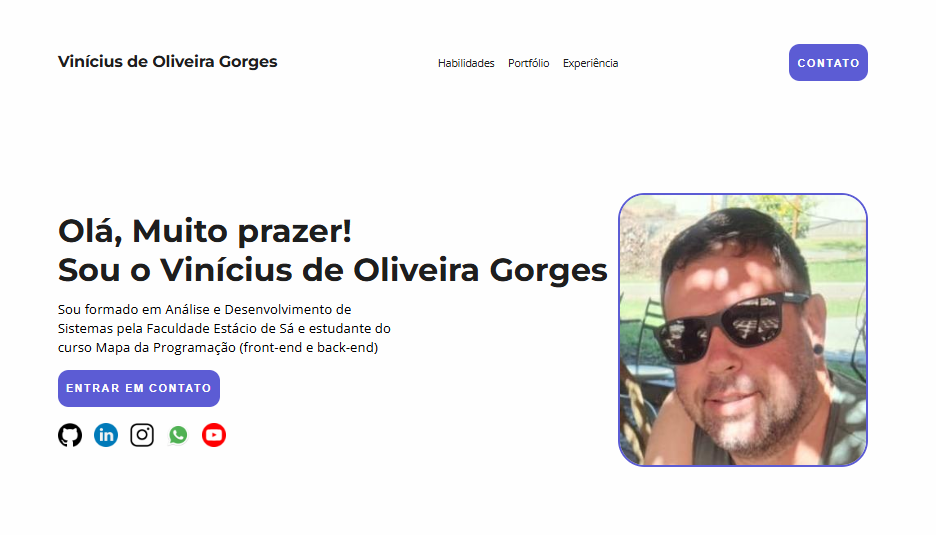
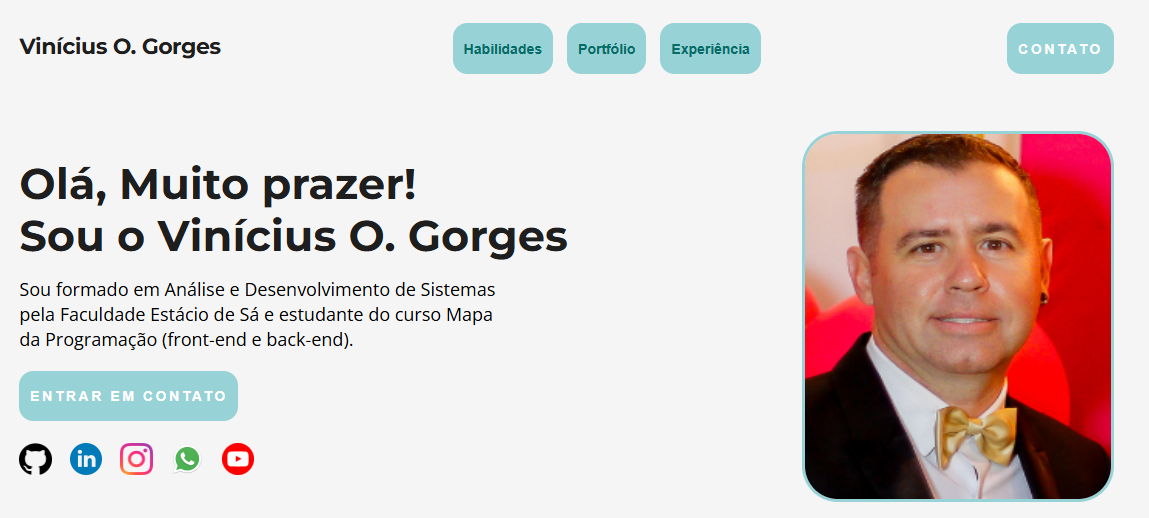
change02062025

diff --git a/index.html b/index.html
@@ -155,8 +155,8 @@
             <div class="section-portfolio-card">
               <img
                 class="section-portfolio-img"
-                src="projeto/wallet.png"
-                alt="Carteira Digital"
+                src="projeto/walletapp.png"
+                alt="Projeto Supermercado"
               />
               <h5>Wallet App</h5>
               <p class="card">Aplicação Java Script.</p>
@@ -175,6 +175,58 @@
                     alt="Github do Projeto"
                   />
                 </a>
+              </div>
+            </div>
+            <div class="section-portfolio-card">
+              <img
+                class="section-portfolio-img"
+                src="projeto/calculator.png"
+                alt="Projeto Supermercado"
+              />
+              <h5>Calculator</h5>
+              <p class="card">Aplicação Java Script.</p>
+              <div class="section-portfolio-card-links">
+                <a onclick="onClickLink('https://viniciusgorges.github.io/calculator/')">
+                  <img
+                    class="section-portfolio-card-icon-image"
+                    src="projeto/link.png"
+                    alt="Link projeto"
+                  />
+                </a>
+                <a onclick="onClickLink('https://github.com/viniciusgorges/calculator')">
+                  <img
+                    class="section-portfolio-card-icon-image"
+                    src="projeto/github.png"
+                    alt="Github do Projeto"
+                  />
+                </a>
+              </div>
+            </div>
+            <div class="section-portfolio-card">
+              <img
+                class="section-portfolio-img"
+                src="projeto/termometro.ico"
+                alt="Projeto Supermercado"
+              />
+              <h5>Temperature Converter</h5>
+              <p class="card">Aplicação Java Script.</p>
+              <div class="section-portfolio-card-links">
+                <a onclick="onClickLink('https://viniciusgorges.github.io/temperature_converter/')">
+                  <img
+                    class="section-portfolio-card-icon-image"
+                    src="projeto/link.png"
+                    alt="Link projeto"
+                  />
+                </a>
+                <a onclick="onClickLink('https://github.com/viniciusgorges/temperature_converter')">
+                  <img
+                    class="section-portfolio-card-icon-image"
+                    src="projeto/github.png"
+                    alt="Github do Projeto"
+                  />
+                </a>
+              </div>
+            </div>
           </div>
         </section>
           <section class="section-experiences" id="section-experiences">
@@ -183,13 +235,24 @@
           <h2 class="verde">Profissionais.
           </h2>
           <div class="section-experiences-card">
+            <img class="section-experiences-card-img" src="experiencia/free.png" alt="Experiências" />
+            <div class="section-experiences-card-text-container"> 
+              <h6 class="section-experiences-card-title">Freelancer - Desenvolvedor front-end | Suporte Técnico de TI
+              </h6>
+              <p class="section-experiences-card-subtitle">Novembro de 2024 até o momento
+              </p>
+              <p class="section-experiences-card-text"> Como desenvolvedor front-end freelancer, atuo na criação e implementação de interfaces web intuitivas e responsivas, garantindo uma experiência de usuário otimizada. Tenho experiência no uso de tecnologias como HTML, CSS, JavaScript e frameworks modernos como React.js. Já na área de Suporte técnico de TI, atuo no reparo e desktops e notebooks, formatação / restauração de equipamentos, backups, instalação e configuração de impressoras, configuração de redes locais sem fio e cabeada.
+              </p>
+            </div>          
+          </div>
+          <div class="section-experiences-card">
             <img class="section-experiences-card-img" src="experiencia/vibra.png" alt="Experiências" />
             <div class="section-experiences-card-text-container"> 
               <h6 class="section-experiences-card-title">Operador de Processos Químicos
               </h6>
               <p class="section-experiences-card-subtitle">Vibra Energia - Outubro de 2020 até Setembro de 2024
               </p>
-              <p class="section-experiences-card-text"> Pude desenvolver uma visão analítica de processos trabalhando como operador de processos químicos, o que me ajudou a abstrair soluções nos problemas em que atuo.
+              <p class="section-experiences-card-text"> Responsável pelo recebimento e análise de biodiesel e etanol, garantindo conformidade operacional e segurança nos processos. Implementação de melhorias na gestão de tanques, otimizando o carregamento e reduzindo desperdícios.
               </p>
             </div>          
           </div>
@@ -200,7 +263,7 @@
               </h6>
               <p class="section-experiences-card-subtitle">Sonda Procwork - Abril de 2015 até Julho de 2020
               </p>
-              <p class="section-experiences-card-text">Suporte aos usuários de informática, equipamentos de automação e CFTV nos sites da BR Distribuidora e Liquigás de São José dos Campos/SP, Unidade do Coque Taubaté/SP e atendimento remoto a outras unidades a nível Brasil.
+              <p class="section-experiences-card-text"> Suporte a usuários em sistemas de automação e infraestrutura de TI, com expertise em Active Directory, VPN, redes LAN/WAN, troubleshooting de hardware e software. Atendimento presencial na Petrobras Distribuidora e remoto a nível nacional.
               </p>
             </div>          
           </div>
@@ -211,7 +274,7 @@
               </h6>
               <p class="section-experiences-card-subtitle">Algar Tecnologia - Agosto de 2011 até Abril de 2015
               </p>
-              <p class="section-experiences-card-text">Suporte aos usuários de informática, equipamentos de automação e CFTV nos sites da BR Distribuidora e Liquigás de São José dos Campos/SP, Unidade do Coque Taubaté/SP e atendimento remoto a outras unidades a nível Brasil.
+              <p class="section-experiences-card-text"> Suporte a usuários em sistemas de automação e infraestrutura de TI, com expertise em Active Directory, VPN, redes LAN/WAN, troubleshooting de hardware e software. Atendimento presencial na Petrobras Distribuidora e remoto a nível nacional.
               </p>
             </div>          
           </div>
@@ -222,7 +285,7 @@
               </h6>
               <p class="section-experiences-card-subtitle">Accenture - Julho de 2008 até Junho de 2011
               </p>
-              <p class="section-experiences-card-text">Suporte aos usuários de informática, equipamentos de automação e CFTV nos sites da BR Distribuidora e Liquigás de São José dos Campos/SP, Unidade do Coque Taubaté/SP e atendimento remoto a outras unidades a nível Brasil.
+              <p class="section-experiences-card-text"> Suporte a usuários em sistemas de automação e infraestrutura de TI, com expertise em Active Directory, VPN, redes LAN/WAN, troubleshooting de hardware e software. Atendimento presencial na Petrobras Distribuidora e remoto a nível nacional.
               </p>
             </div>          
           </div>

diff --git a/styles.css b/styles.css
@@ -147,7 +147,7 @@ footer {
 
 .hero-info-image {
   height: 405px;
-  width: 370px;
+  width: 340px;
   border-radius: 40px;
   border-color: rgb(151, 210, 214);
   border-width: 4px;
@@ -264,7 +264,7 @@ footer {
 }
 
 .section-portfolio-img {
-  width: 220px;
+  width: 120px;
   height: 156;
   margin-bottom: 12px;
 }
@@ -306,7 +306,7 @@ footer {
 }
 
 .section-experiences-card-img {
-  width: 48px;
+  width: 58px;
   height: 48px;
   border-radius: 12px;
 }
@@ -328,13 +328,13 @@ footer {
 
 .section-experiences-card-subtitle {
   font-family: "Montserrat", sans-serif;
-  font-size: 14px;
+  font-size: 16px;
   margin: 4px 0px 0px 0px;
 }
 
 .section-experiences-card-text {
   font-family: "Montserrat", sans-serif;
-  font-size: 12px;
+  font-size: 16px;
   margin: 6px 0px 0px 0px;
 }
 
